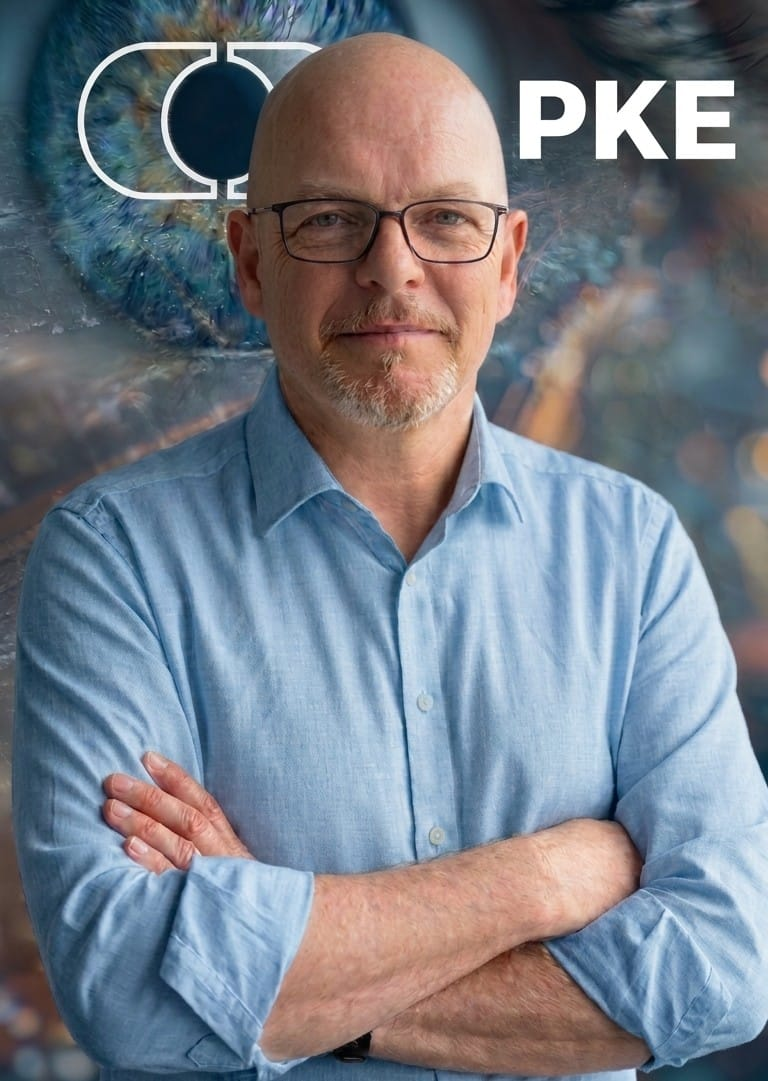
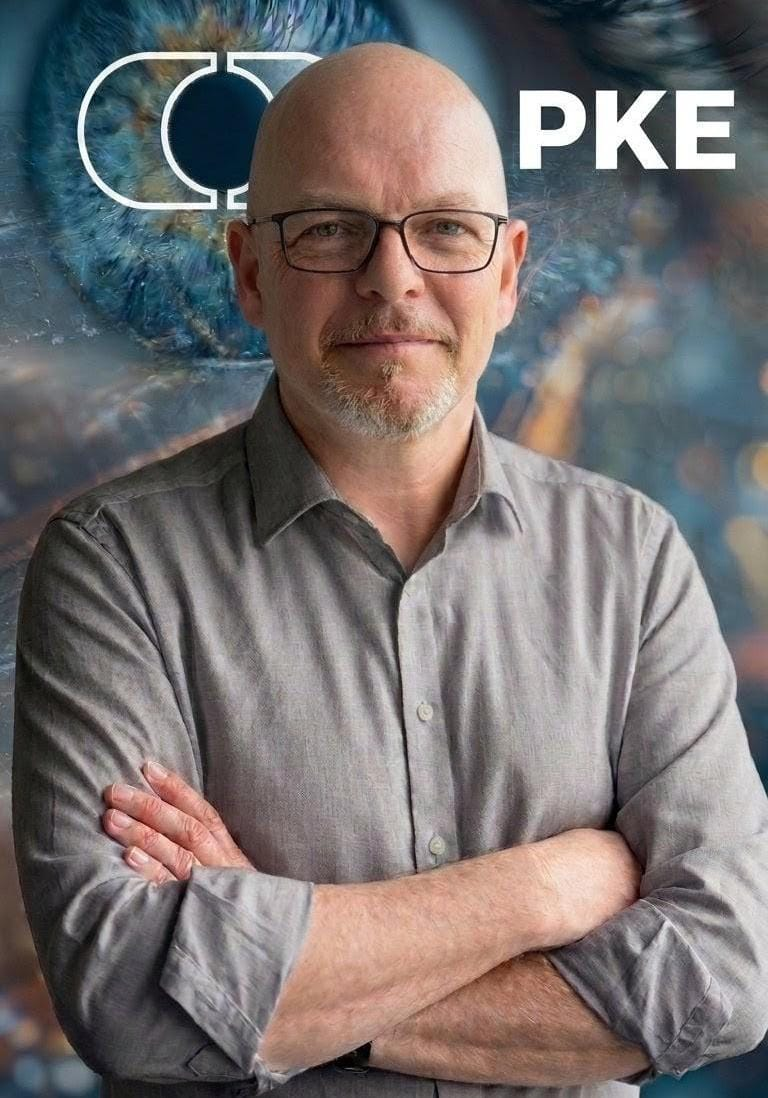
Add files via upload

diff --git a/style.css b/style.css
@@ -70,7 +70,7 @@ body {
 .title {
     font-size: 13px;
     font-weight: 700;
-    color: #6b9bd2; /* 👈 لون قميص Ingo الجديد */
+    color: #94a3b8; /* 👈 رصاصي فاتح هادئ متناسق مع القميص الجديد */
     letter-spacing: 1.5px;
     margin-bottom: 25px;
     text-transform: uppercase;
@@ -78,21 +78,21 @@ body {
 /* زر التواصل الرئيسي */
 .cta-button {
     width: 100%;
-    background: #6b9bd2; /* 👈 نفس درجة القميص المظبوطة */
-    color: #ffffff;
+    background: #c1bcbc; /* 👈 زرار أبيض صريح عشان ينور تحت الكحلي */
+    color: #0f172a; /* الكتابة جواه بالكحلي الغامق للتباين */
     border: none;
     padding: 16px;
     border-radius: 50px;
     font-size: 16px;
     font-weight: 700;
     cursor: pointer;
-    box-shadow: 0 4px 14px rgba(107, 155, 210, 0.25); /* خففنا الظل عشان يليق مع الدرجة الجديدة */
+    box-shadow: 0 4px 14px rgba(0, 0, 0, 0.2);
     transition: background 0.3s ease, transform 0.2s ease;
 }
 
 .cta-button:active {
     transform: scale(0.98);
-    background: #5381b8; /* درجة أغمق سيكا وقت الضغط */
+    background: #cbd5e1; /* 👈 يقلب رصاصي عند الضغط */
 }
 /* تأثير الإخفاء والظهور للأيقونات */
 .social-icons {
@@ -127,12 +127,8 @@ body {
 }
 
 .social-icons a:hover i {
-    color: #6b9bd2; /* 👈 يقلب لون القميص عند الهوفر */
+    color: #008cd2; /* 👈 لمسة اللبني لشركة PKE تظهر هنا عند التفاعل فقط */
     transform: translateY(-3px);
-}
-
-.save-vcard:hover i {
-    color: #6b9bd2 !important; /* 👈 زرار الحفظ كمان يقلب نفس الدرجة */
 }
 
 .save-vcard:hover i {